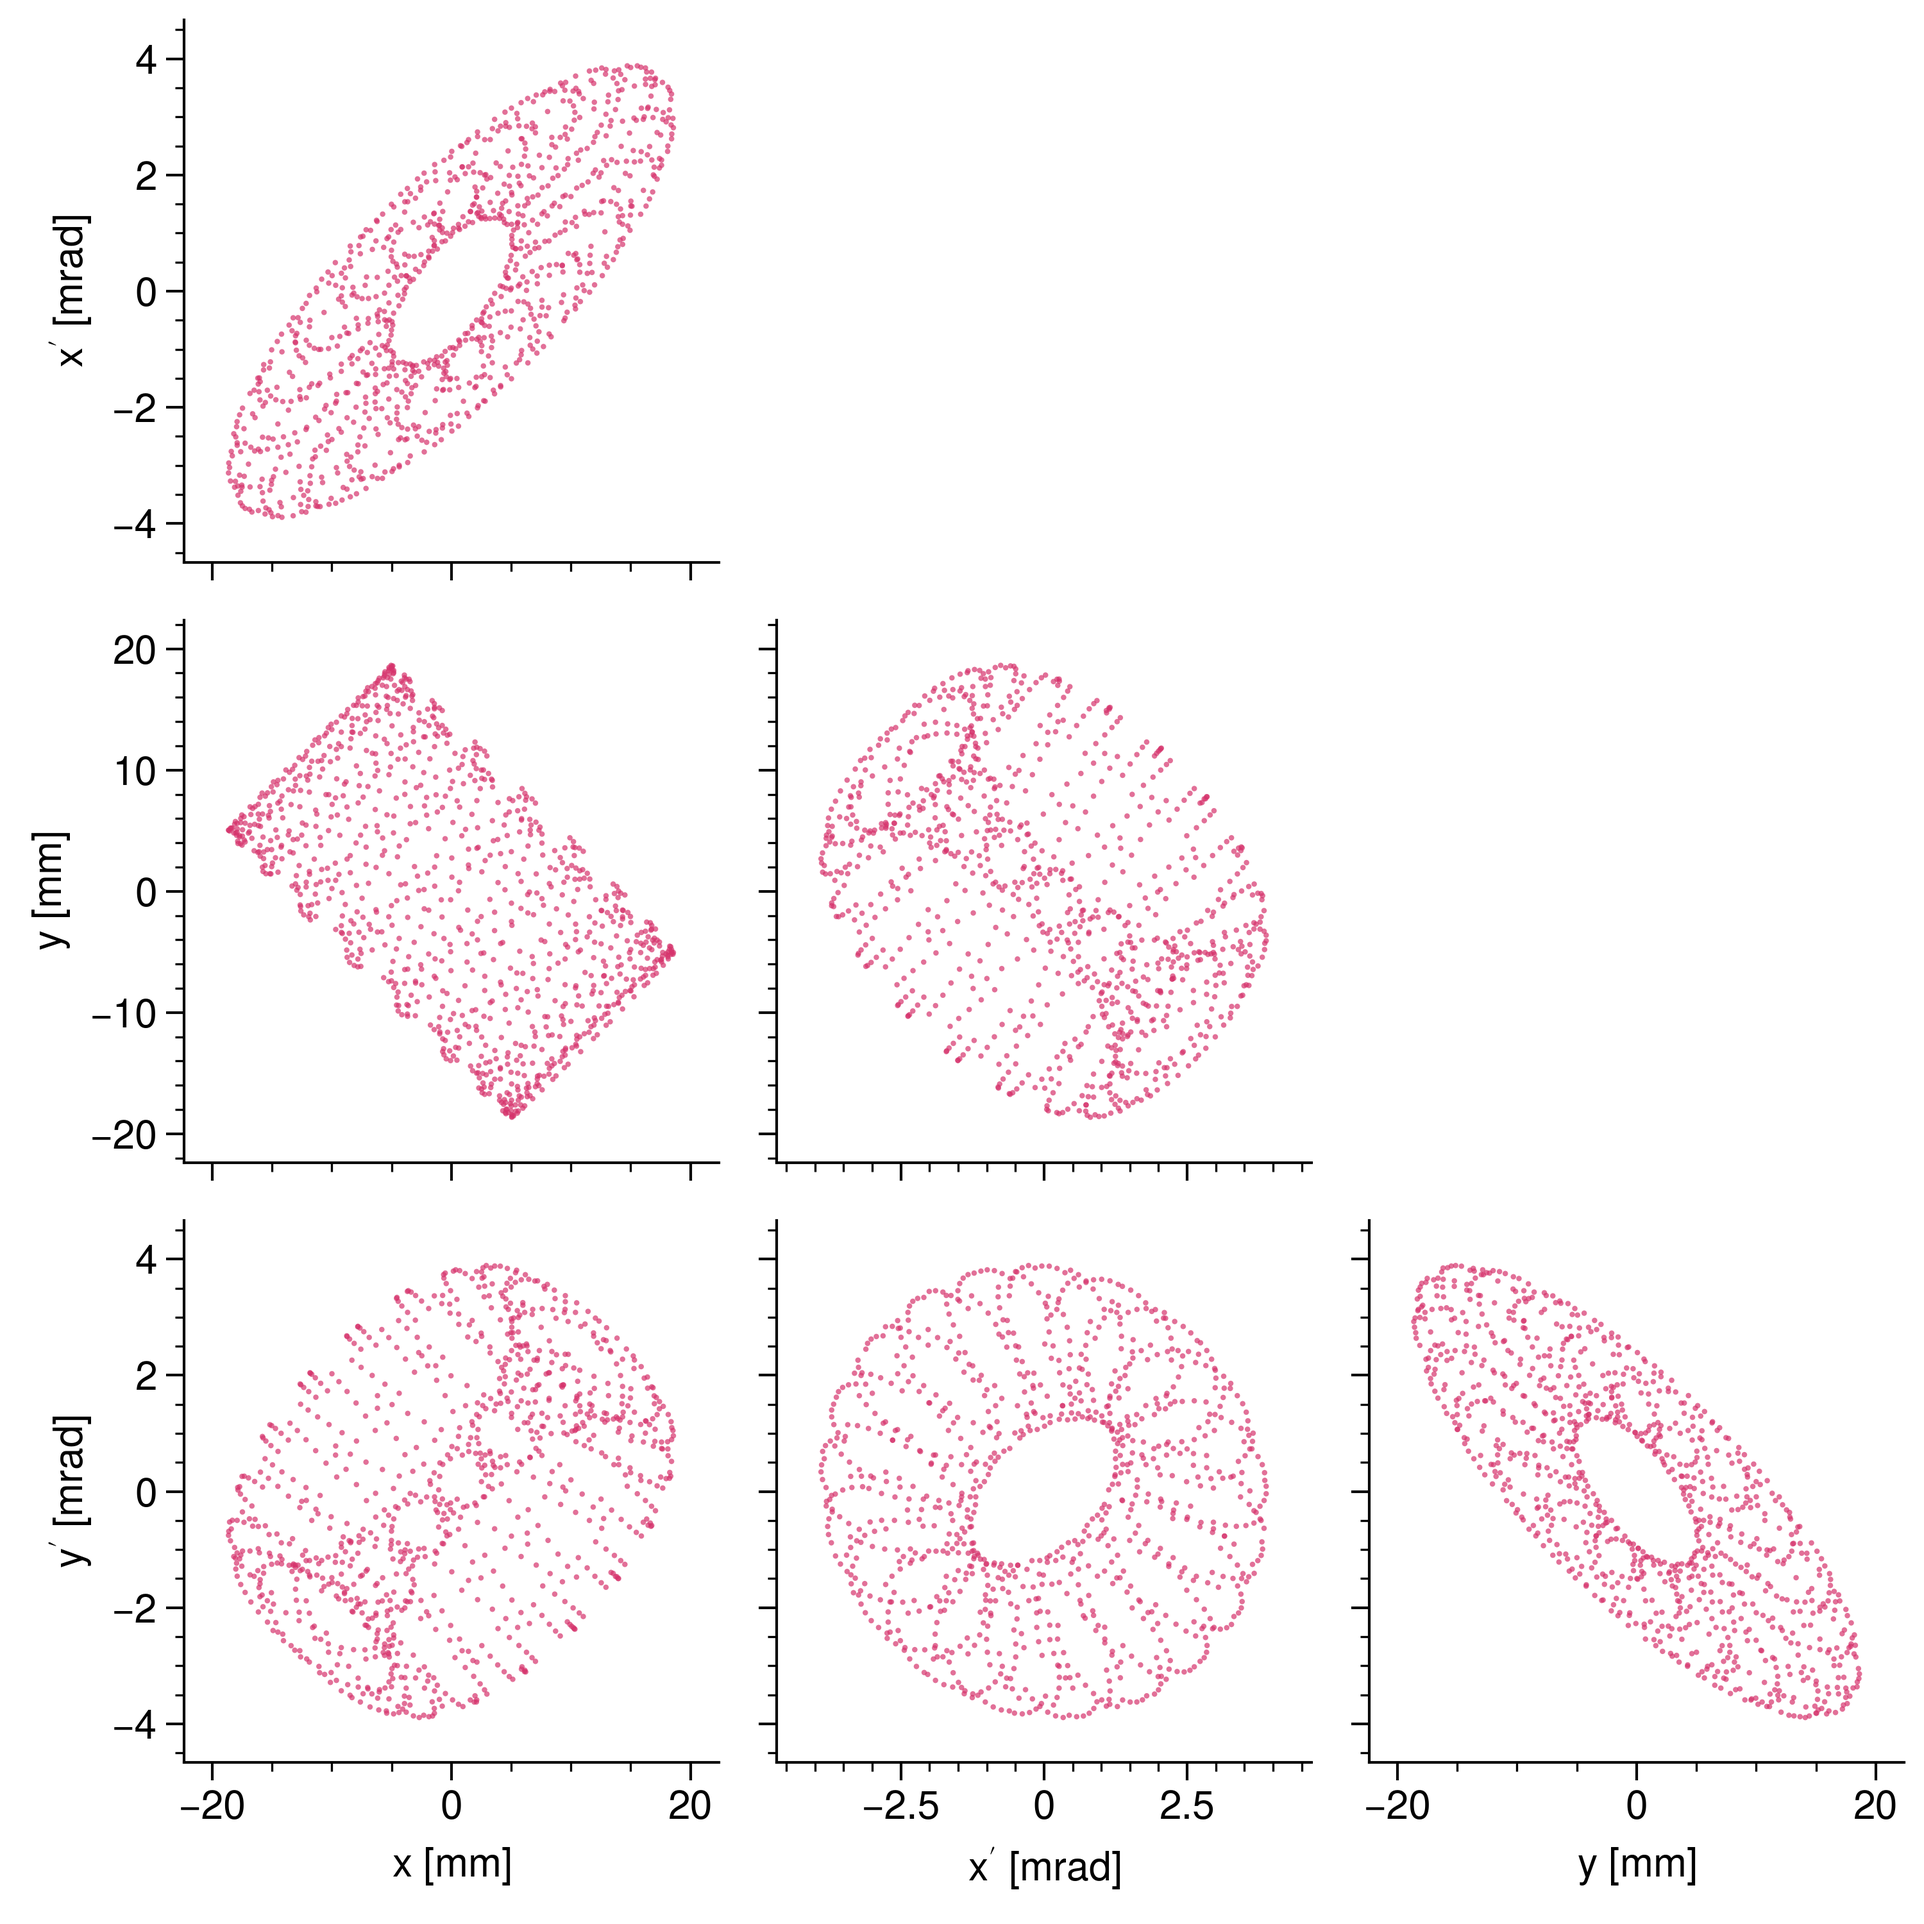
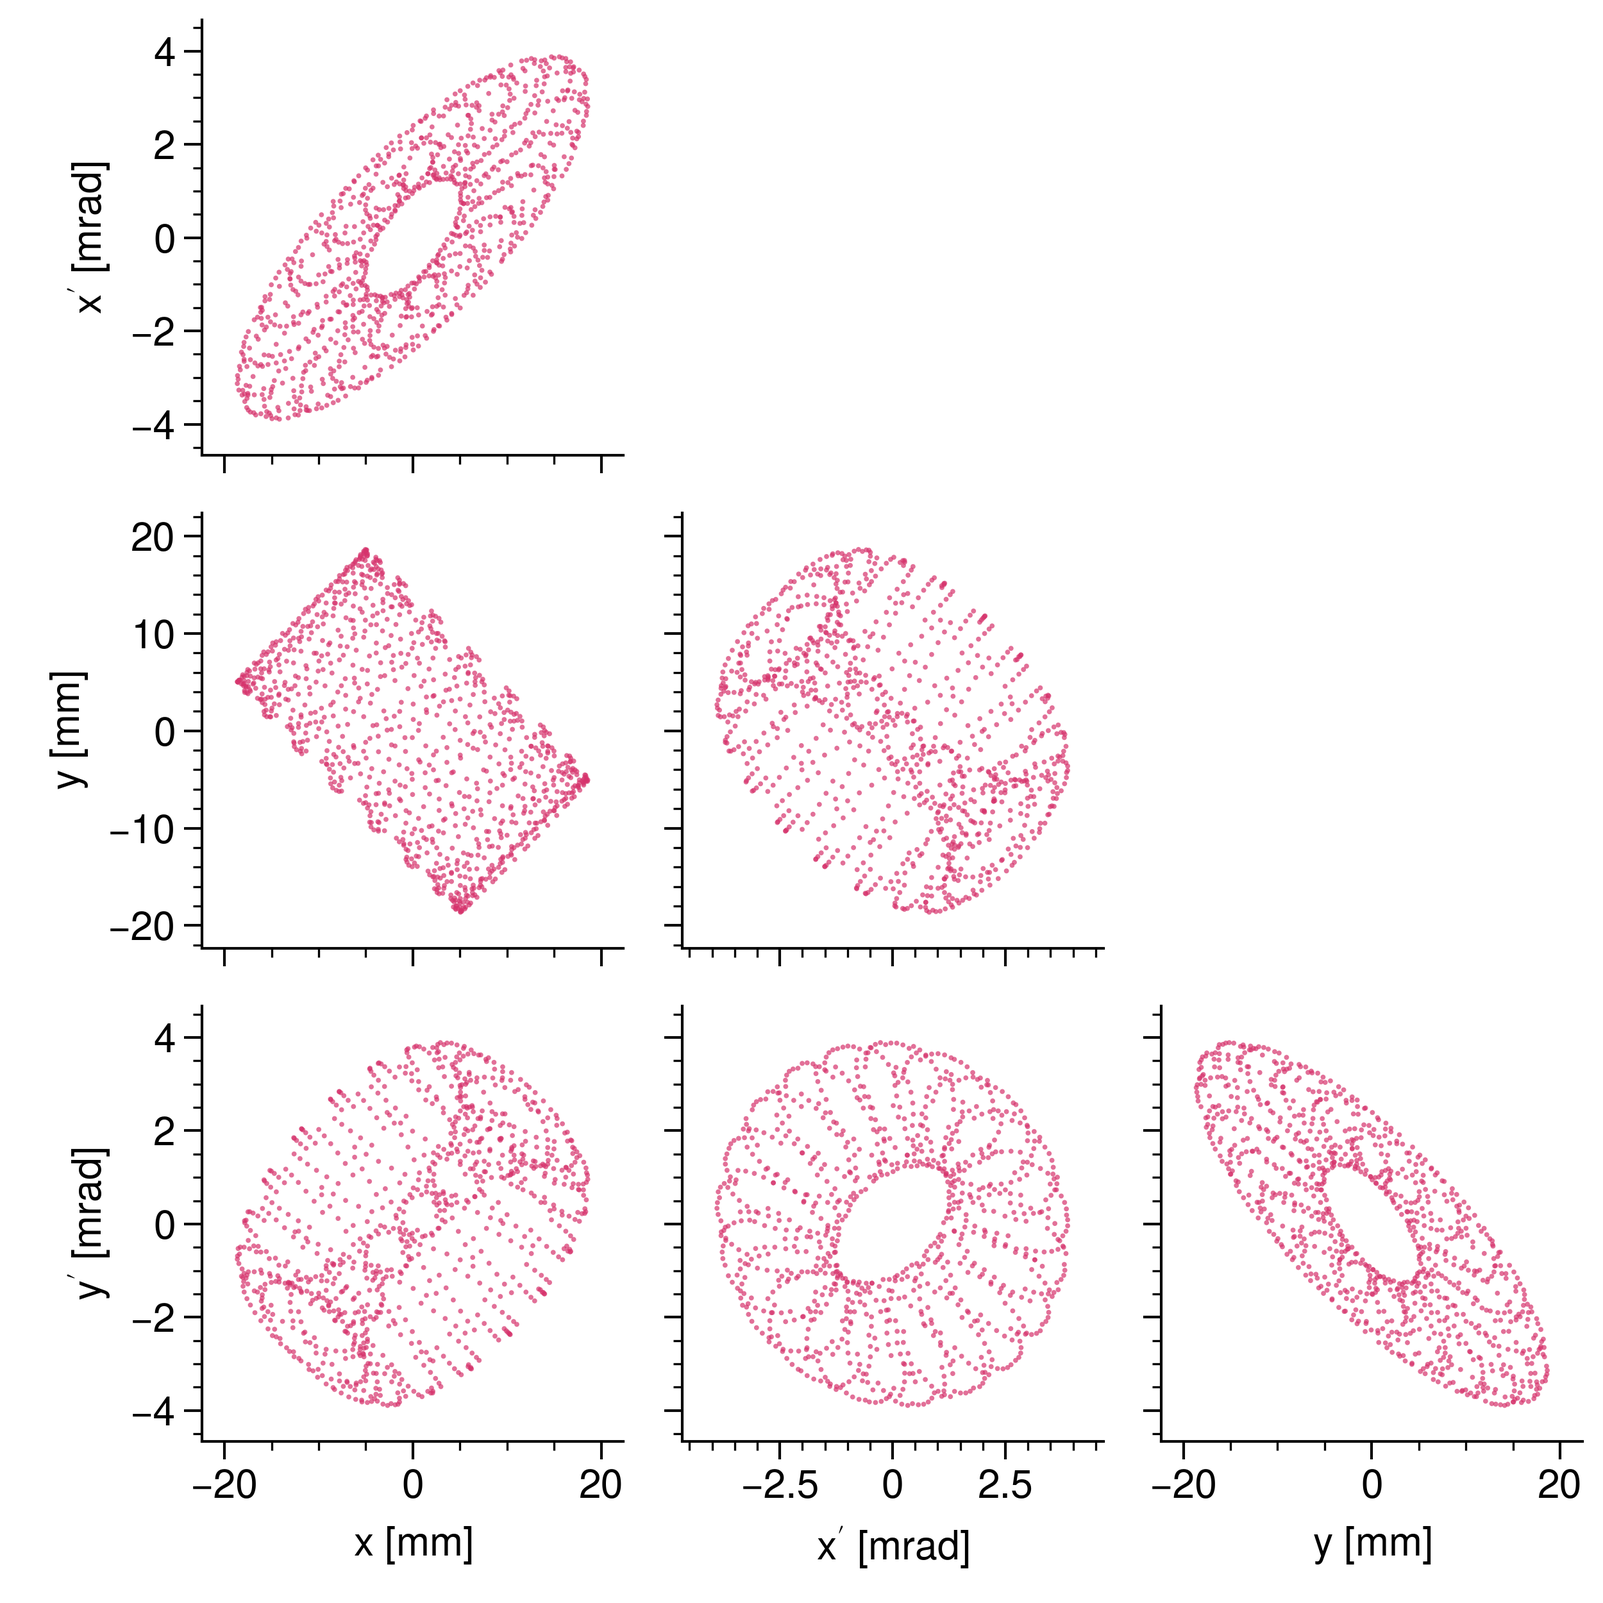
Change two figures in chapter 1

diff --git a/MainText/chapter1.tex b/MainText/chapter1.tex
@@ -875,7 +875,7 @@ The coordinates are then transported to the injection point using the model tran
 %
 \begin{figure}
     \centering
-    \includegraphics[width=\textwidth]{Images/chapter1/minipulse_chromaticity.png}
+    \includegraphics[width=\textwidth]{Images/chapter1/minipulse_chromaticity_black.png}
     \caption{Simulated minipulse in the (linearized) SNS ring. The $x$-$x'$ distribution is plotted at the injection point along with the Courant-Snyder ellipse.}
     \label{fig:minipulse}
 \end{figure}
